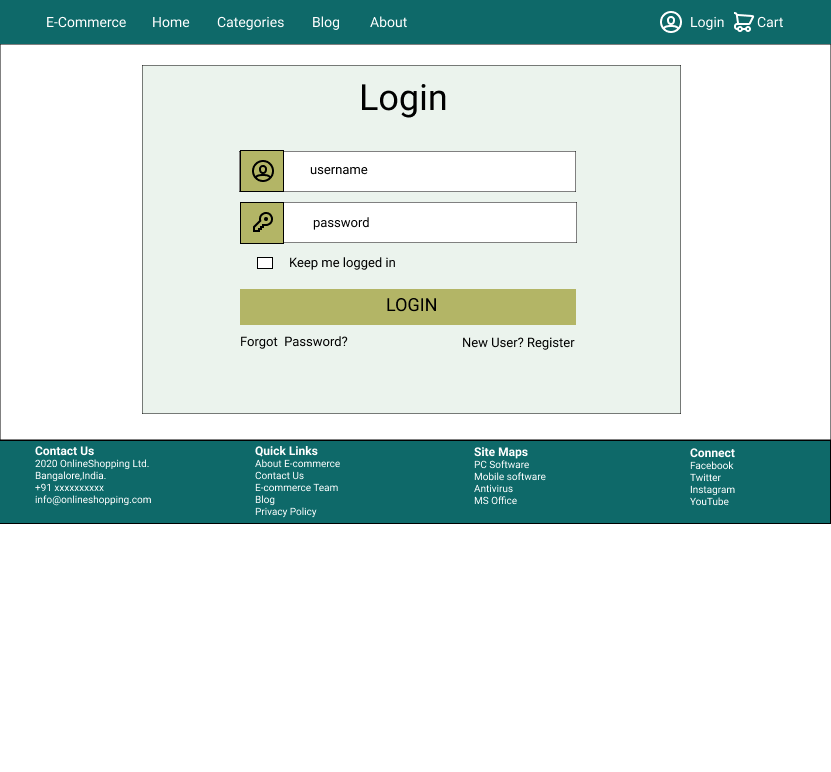
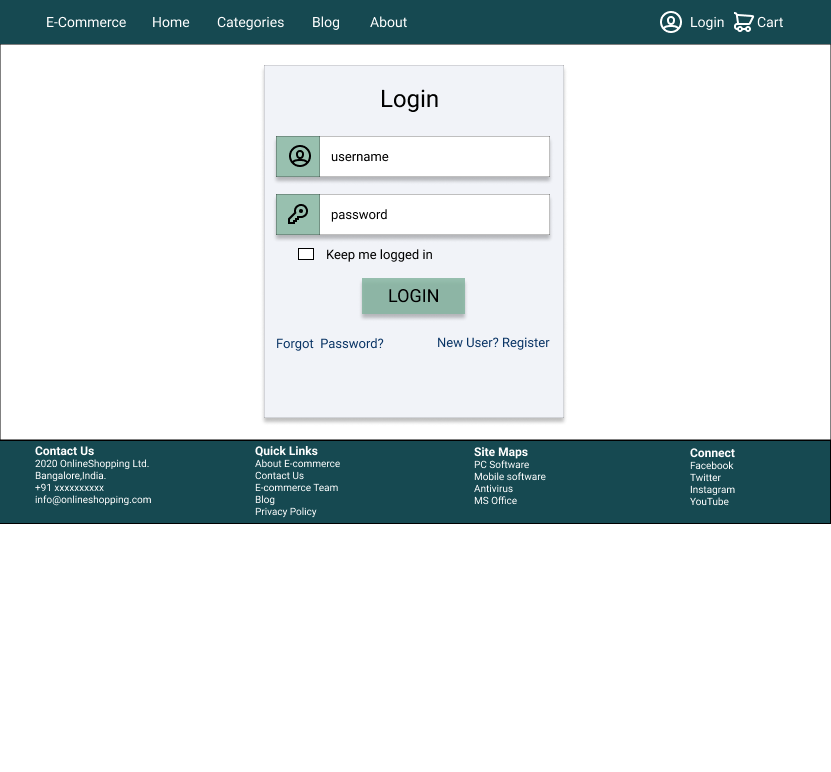
headerFooter and jumbotron color modified

diff --git a/ColorCombo/bgImg_LightHeaderFooter2/homePage.html b/ColorCombo/bgImg_LightHeaderFooter2/homePage.html
@@ -104,7 +104,7 @@
                                 <div class="input-group">
                                     <a href="#" class="btn moreDetails rounded border border-dark">
                                         <span class="input-group-addon">
-                                            <i class="fas fa-list text-dark"></i>
+                                            <i class="fas fa-list"></i>
                                         </span>
                                         More Details
                                     </a>
@@ -112,7 +112,7 @@
                             </div>
                             <div class="col-6">
                                 <a href="#" class="btn stretched-link cart border border-dark">
-                                    <i class="fas fa-cart-plus text-dark"></i>
+                                    <i class="fas fa-cart-plus"></i>
                                     Add to Cart
                                 </a>
                             </div>
@@ -146,7 +146,7 @@
                                 <div class="input-group">
                                     <a href="#" class="btn moreDetails  rounded border border-dark">
                                         <span class="input-group-addon">
-                                            <i class="fas fa-list text-dark"></i>
+                                            <i class="fas fa-list"></i>
                                         </span>
                                         More Details
                                     </a>
@@ -154,7 +154,7 @@
                             </div>
                             <div class="col-6">
                                 <a href="#" class="btn stretched-link cart border border-dark">
-                                    <i class="fas fa-cart-plus text-dark"></i>
+                                    <i class="fas fa-cart-plus"></i>
                                     Add to Cart
                                 </a>
                             </div>
@@ -187,7 +187,7 @@
                                 <div class="input-group">
                                     <a href="#" class="btn moreDetails rounded border border-dark">
                                         <span class="input-group-addon">
-                                            <i class="fas fa-list text-dark"></i>
+                                            <i class="fas fa-list"></i>
                                         </span>
                                         More Details
                                     </a>
@@ -195,7 +195,7 @@
                             </div>
                             <div class="col-6">
                                 <a href="#" class="btn stretched-link cart border border-dark">
-                                    <i class="fas fa-cart-plus text-dark"></i>
+                                    <i class="fas fa-cart-plus"></i>
                                     Add to Cart
                                 </a>
                             </div>
@@ -228,7 +228,7 @@
                                 <div class="input-group">
                                     <a href="#" class="btn moreDetails rounded border border-dark">
                                         <span class="input-group-addon">
-                                            <i class="fas fa-list text-dark"></i>
+                                            <i class="fas fa-list"></i>
                                         </span>
                                         More Details
                                     </a>
@@ -236,7 +236,7 @@
                             </div>
                             <div class="col-6">
                                 <a href="#" class="btn stretched-link cart border border-dark">
-                                    <i class="fas fa-cart-plus text-dark"></i>
+                                    <i class="fas fa-cart-plus"></i>
                                     Add to Cart
                                 </a>
                             </div>

diff --git a/ColorCombo/bgImg_LightHeaderFooter2/style/style.css b/ColorCombo/bgImg_LightHeaderFooter2/style/style.css
@@ -1,6 +1,5 @@
 :root { /* root says this variable is globally valid for all*/
     --headerFooterColor: #164951; /* "--var_name : value" is format for declaring the CSS variable*/
-    --jumbatronColor :  white;/* rgba(159, 143, 59, 0.42); /*rgba(184, 143, 64, 0.42);*/
     --elementsColor: #aad3d7bd;
     --buttonColor: #86b5a185; /* rgba(144, 135, 85, 0.42);*/
   }
@@ -34,9 +33,7 @@ li>a:hover
     color: white !important;
 }
 
-.jumbotron{
-    /*background-color: #009e73;*/
-    background-color: var(--jumbatronColor) ;
+.jumbotron{   
     font-family: Montserrat, sans-serif;   
     background-image: linear-gradient(-4deg, rgba(195, 227, 124, 0.99), rgba(86, 138, 127, 0.49));   
 } 
@@ -85,10 +82,11 @@ li>a:hover
 
 .cart{
     background-color: white;
+    color:black;
     font-size: 14px !important;
 }
 
-section>a, u, span, i{
+section>a, section>u, section>span, section>i{
     color: white !important;  
 }
 

diff --git a/style/style.css b/style/style.css
@@ -1,6 +1,6 @@
 :root { /* root says this variable is globally valid for all*/
     --headerFooterColor: #0E6969; /* "--var_name : value" is format for declaring the CSS variable*/
-    --jumbatronColor :  rgba(159, 143, 59, 0.42); /*rgba(184, 143, 64, 0.42);*/
+    --jumbatronColor :  #b8d62a63; /*rgba(184, 143, 64, 0.42);*/
     --elementsColor: #b5e1e7be;
     --buttonColor: rgba(144, 135, 85, 0.42);
   }
